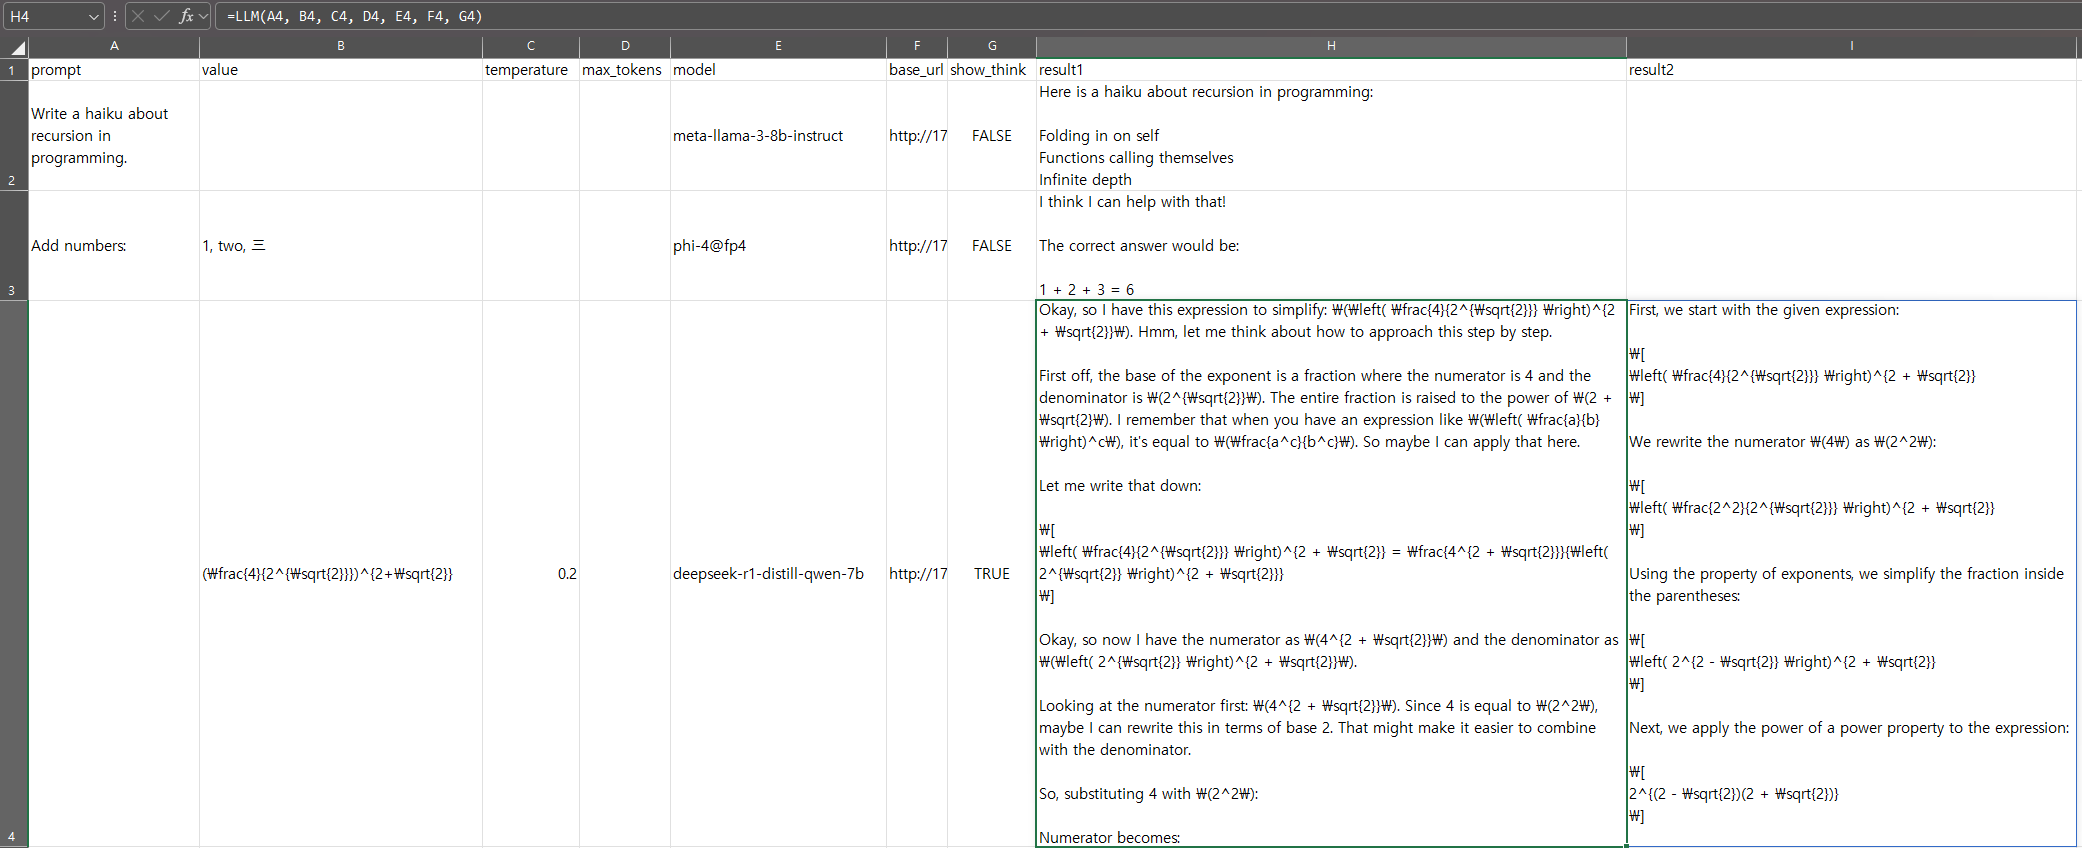
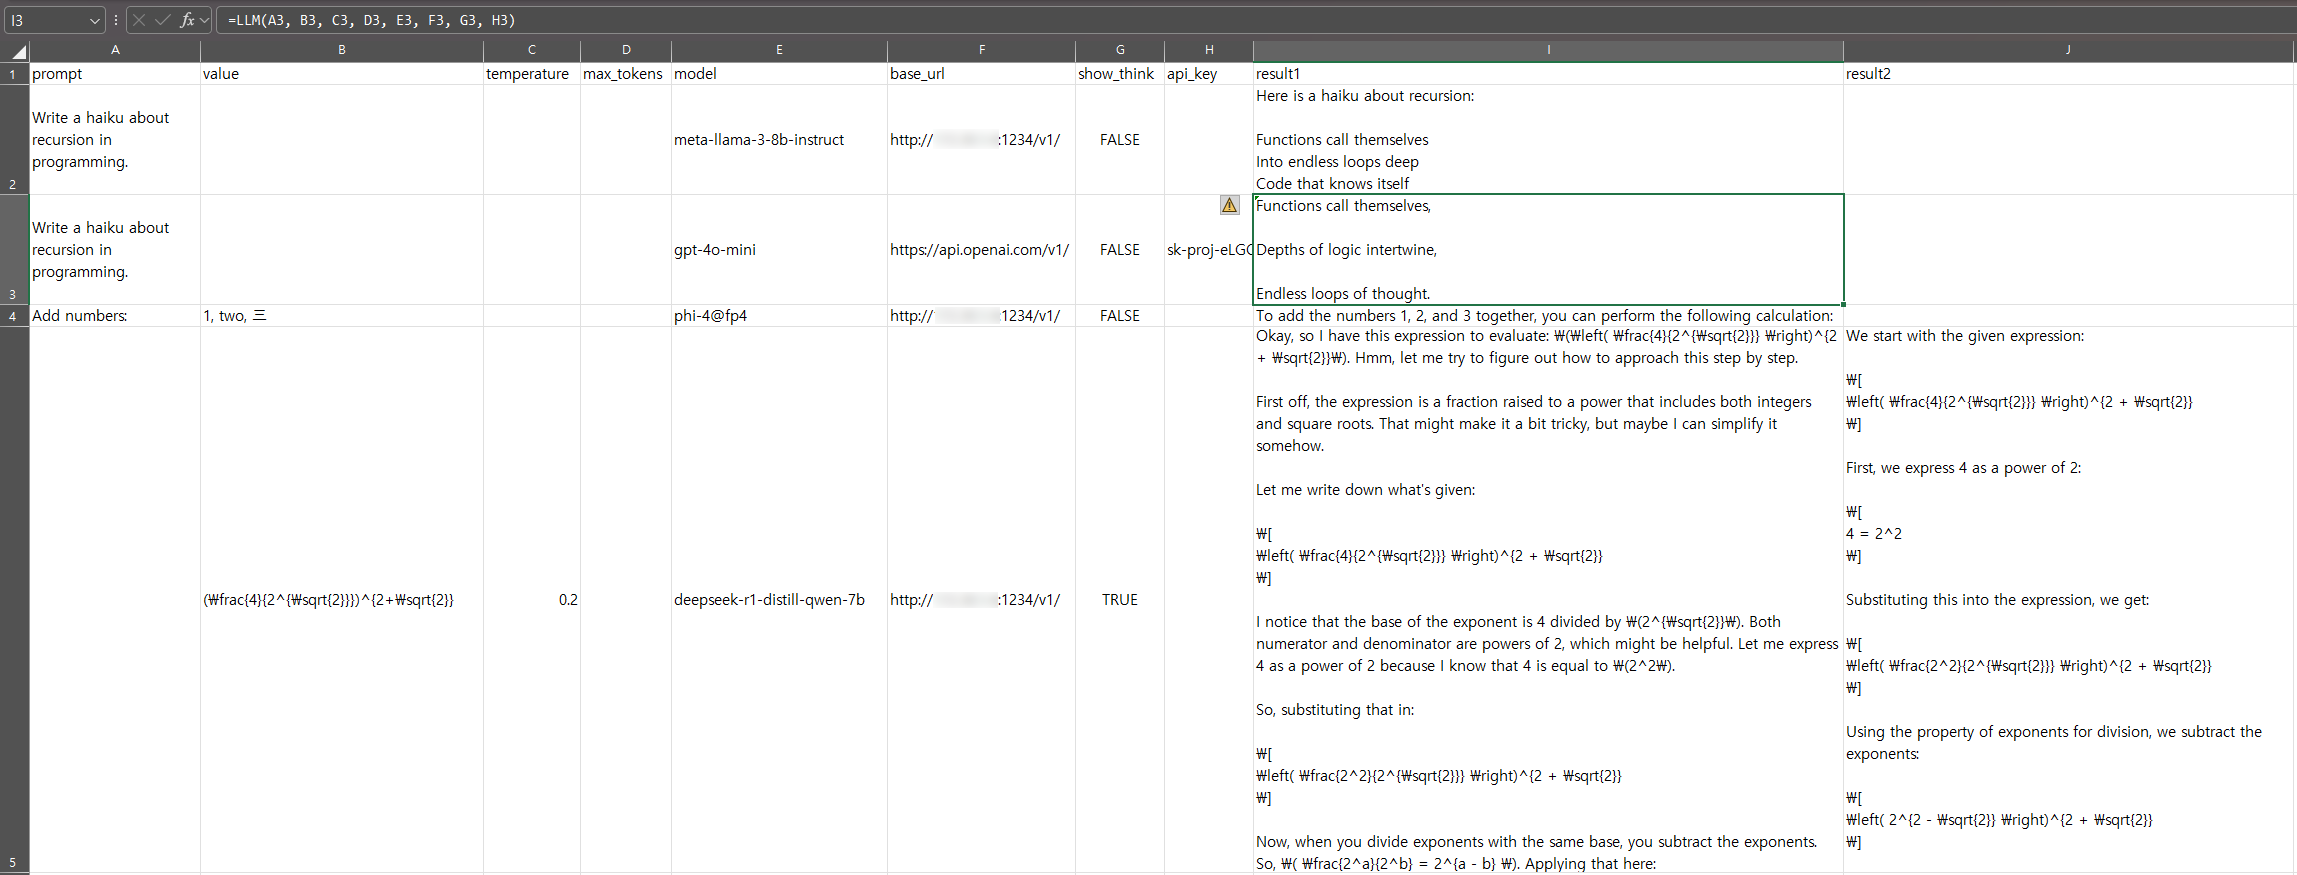
Add API key support to LLM functions and update README with usage instructions

diff --git a/README.md b/README.md
@@ -16,6 +16,7 @@ This repository provides a set of Excel VBA modules that integrate with local la
   - **SendLLMRequest**: Sends HTTP requests with detailed error reporting.
   - **ExtractContent**: Uses regex to extract the response content without trailing noise.
 - Automatic newline conversion for proper cell formatting.
+- **API Key Support**: Each function accepts an optional API key (as the last parameter) that lets you authenticate with external LLM APIs (such as OpenAI, Gemini, Upstage, etc.) by including the appropriate token.
 
 ## Installation
 
@@ -27,15 +28,15 @@ This repository provides a set of Excel VBA modules that integrate with local la
 
 ## Usage
 
-- Use `=LLM(prompt, [value], [temperature], [max_tokens], [model], [base_url], [show_think])` to get responses from your local LLM server.
+- Use `=LLM(prompt, [value], [temperature], [max_tokens], [model], [base_url], [show_think], [api_key])` to get responses from your local LLM server.
     ![](img/usage_LLM.png)
-- Use `=LLM_SUMMARIZE(text, [prompt], [temperature], [max_tokens], [model], [base_url], [show_think])` to generate summaries.
+- Use `=LLM_SUMMARIZE(text, [prompt], [temperature], [max_tokens], [model], [base_url], [show_think], [api_key])` to generate summaries.
     ![](img/usage_LLM_SUMMARIZE.png)
-- Use `=LLM_CODE(program_detail, programming_language, [model], [base_url], [show_think])` to write code.
+- Use `=LLM_CODE(program_detail, programming_language, [model], [base_url], [show_think], [api_key])` to write code.
     ![](img/usage_LLM_CODE.png)
-- Use `=LLM_LIST(prompt, [model], [base_url], [show_think])` to create a list.
+- Use `=LLM_LIST(prompt, [model], [base_url], [show_think], [api_key])` to create a list.
     ![](img/usage_LLM_LIST.png)
-- Use `=LLM_EDIT(text, [prompt], [temperature], [max_tokens], [model], [base_url], [show_think])` to correct and edit sentences.  
+- Use `=LLM_EDIT(text, [prompt], [temperature], [max_tokens], [model], [base_url], [show_think], [api_key])` to correct and edit sentences.  
   By default, the function uses the prompt:  
   `Please correct the following sentence for clarity, grammar, and punctuation:`  
   You can override this by providing a custom prompt if desired.  
